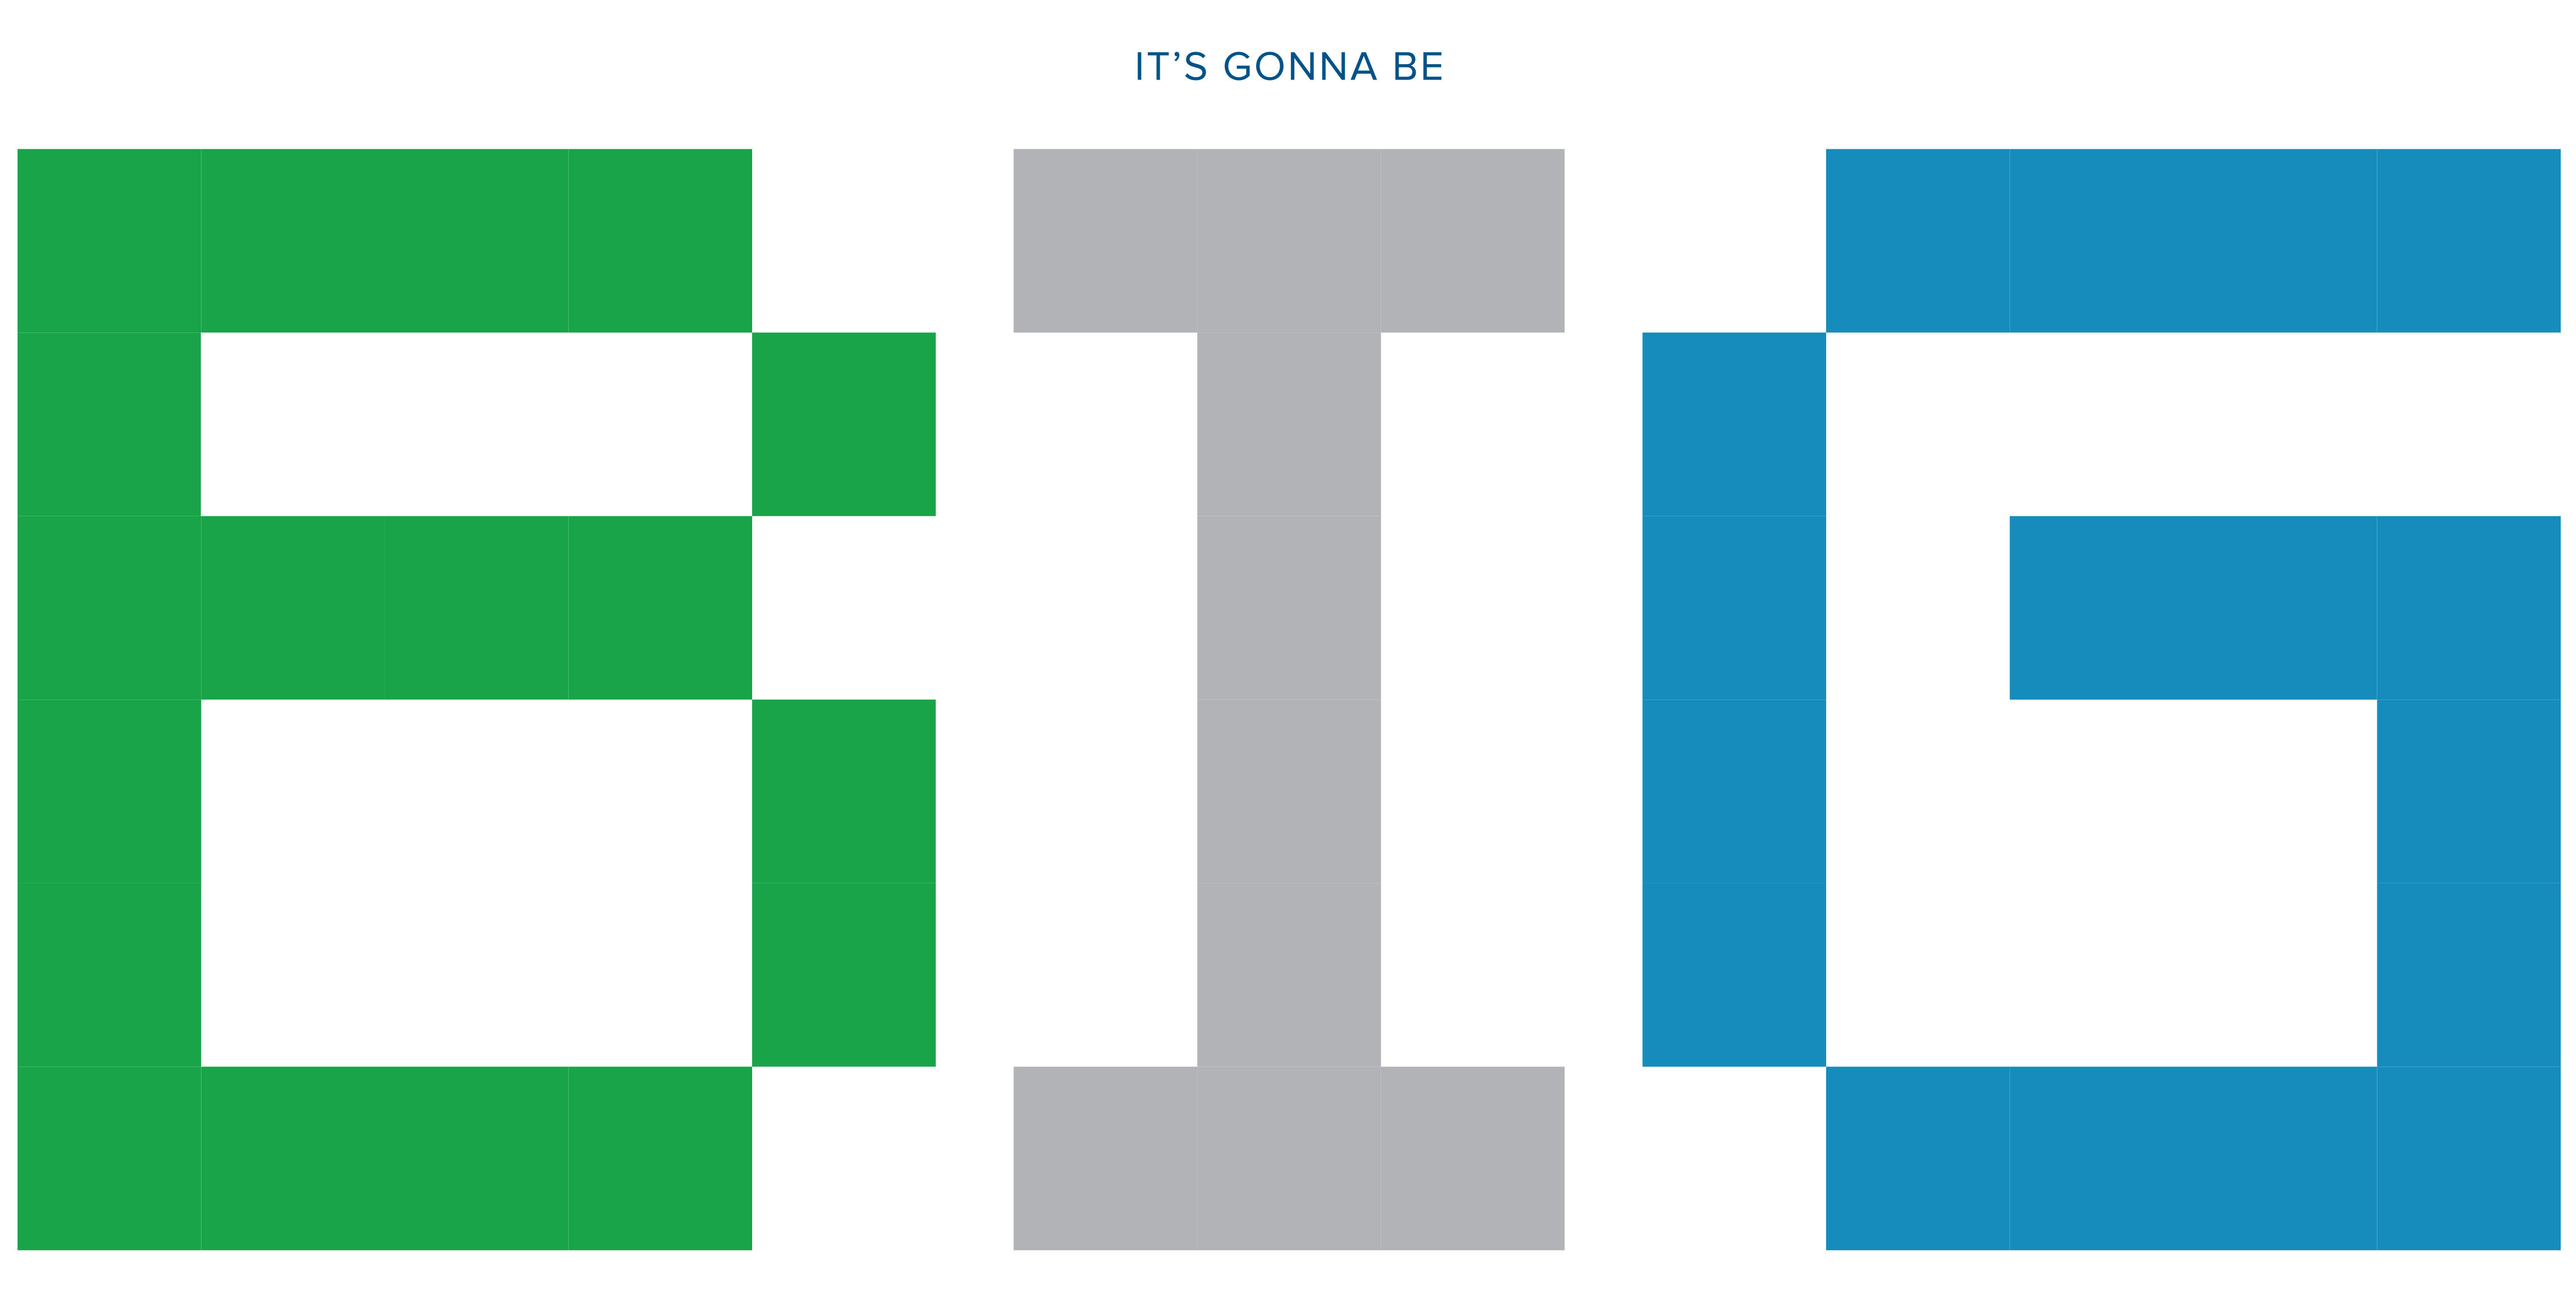
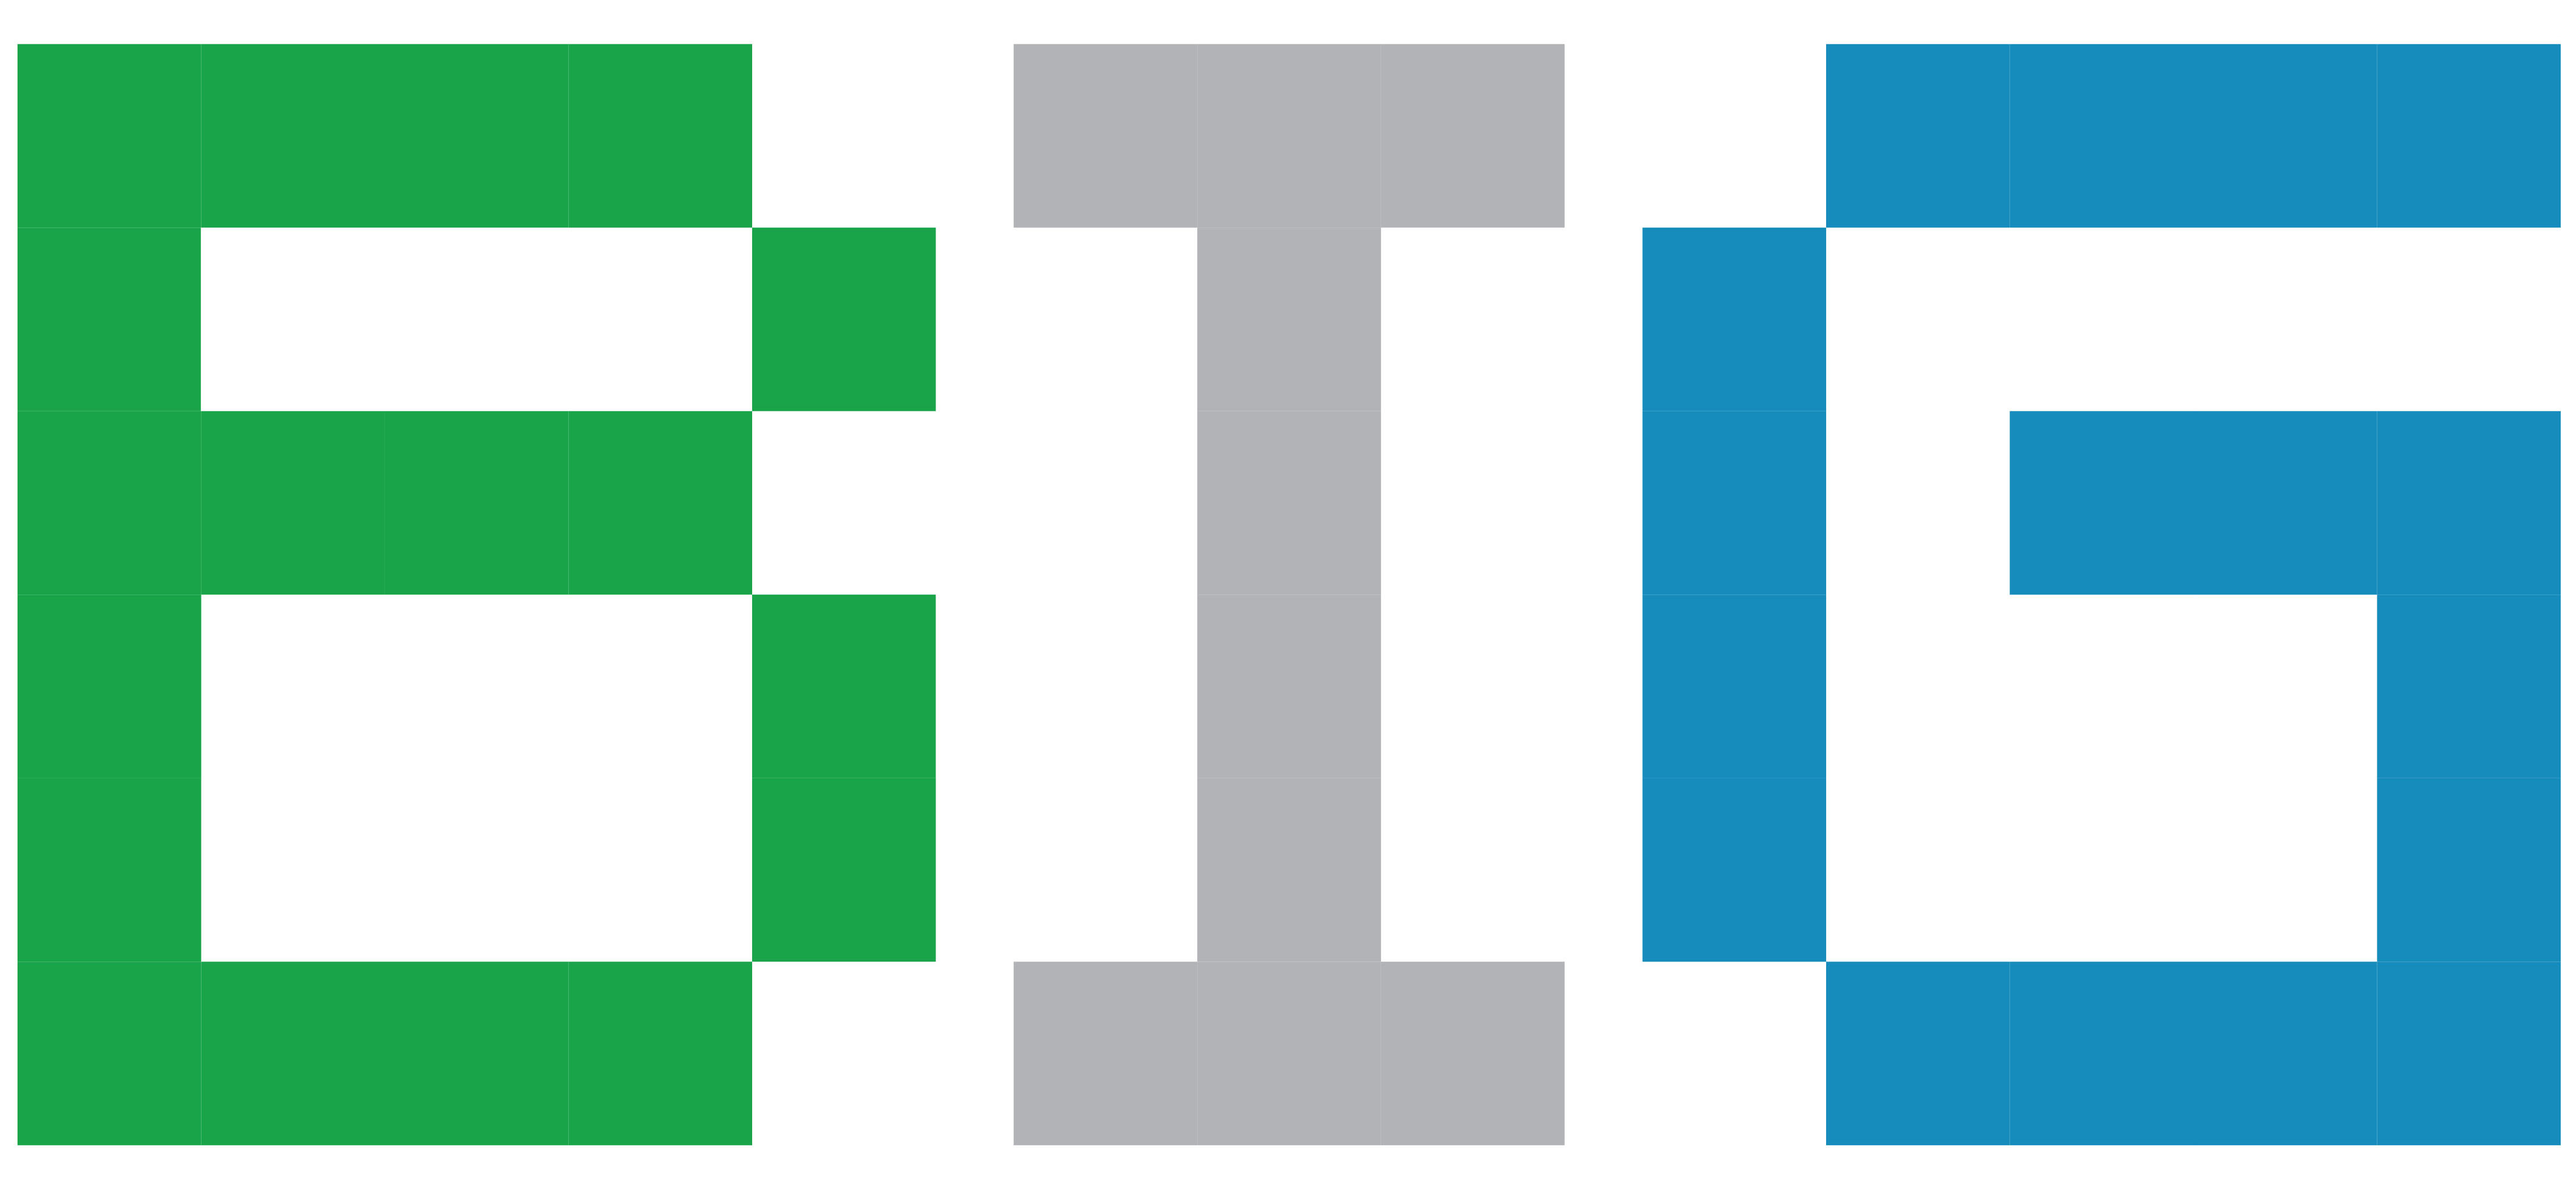
Updated comming soon page

diff --git a/_layouts/default.html b/_layouts/default.html
@@ -24,7 +24,6 @@
       <a href="https://www.capitalone.ca/careers" target="_blank">CAREERS</a>
       <a href="{{ site.baseurl }}/about">ABOUT</a>
       <a href="{{ site.baseurl }}/events">EVENTS</a>
-      <a href="{{ site.baseurl }}/comingsoon">COMING SOON</a>
       <a href="#" class="close"><span class="icon-close"></span>CLOSE</a>
     </nav>
     {% if site.analyticsEnabled == true %}

diff --git a/_includes/nav.html b/_includes/nav.html
@@ -4,7 +4,6 @@
 		<a href="https://www.capitalone.ca/careers" target="_blank">CAREERS</a>
 		<a href="{{ site.baseurl }}/about">ABOUT</a>
         <a href="{{ site.baseurl }}/events">EVENTS</a>
-        <a href="{{ site.baseurl }}/comingsoon">COMING SOON</a>
 		<a href="#" class="menu"><span class="icon-menu"></span>MENU</a>
 	</div>
 </nav>

diff --git a/comingsoon.md b/comingsoon.md
@@ -6,5 +6,6 @@ images:
     Hackethon_Teaser: /assets/img/Hackethon_teaser.jpg
 ---
 
-At Capital One, we believe that when people come together to achieve a goal, they can work wonders. We’re planning to demonstrate that to our community this fall. However, we can’t tell you much now, but...
+At Capital One, we believe that when people come together to achieve a goal, they can work wonders. We’re planning to demonstrate that to our community this fall. However, we can’t tell you much now, but it's gonna be...
+<br/><br/>
 ![Hackethon_Teaser]({{ site.baseurl | append:page.images.Hackethon_Teaser }})
